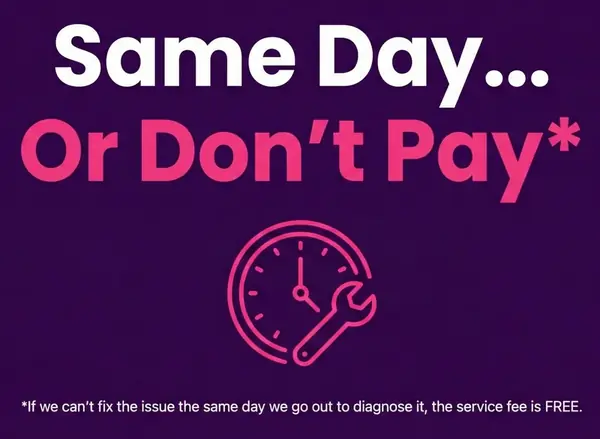
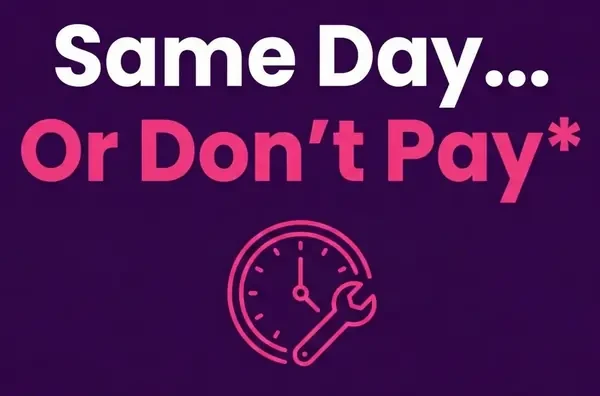
Update same-day-guarantee image on all pages: remove disclaimer text, update dimensions

Changed region(s): [[0.03, 0.0303, 0.99, 0.9394], [0.03, 0.2727, 0.21, 0.4848]]

diff --git a/pages/services/ac/evaporator-coil-replacement.html b/pages/services/ac/evaporator-coil-replacement.html
@@ -335,7 +335,7 @@
 
                     <!-- Same Day Guarantee Image -->
                     <figure style="margin: var(--spacing-xl) 0; text-align: center; display: flex; justify-content: center;">
-                        <img src="../../../images/services/ac/same-day-guarantee.webp" alt="Same Day Or Don't Pay Guarantee - If we can't fix the issue the same day we go out to diagnose it, the service fee is FREE" width="600" height="439" loading="lazy" style="width: 100%; max-width: 500px; height: auto; border-radius: var(--radius-md);">
+                        <img src="../../../images/services/ac/same-day-guarantee.webp" alt="Same Day Or Don't Pay Guarantee" width="600" height="396" loading="lazy" style="width: 100%; max-width: 500px; height: auto; border-radius: var(--radius-md);">
                     </figure>
 
                     <p>At On The Way Heating & Air, we replace evaporator coils throughout North Tampa—<a href="../../../pages/locations/carrollwood.html" style="color: #71CEEB;">Carrollwood</a>, <a href="../../../pages/locations/new-tampa.html" style="color: #71CEEB;">New Tampa</a>, USF, <a href="../../../pages/locations/temple-terrace.html" style="color: #71CEEB;">Temple Terrace</a>, <a href="../../../pages/locations/wesley-chapel.html" style="color: #71CEEB;">Wesley Chapel</a>. We'll diagnose whether your coil can be repaired or needs replacement, and we'll be straight with you about whether repair makes financial sense.</p>

diff --git a/pages/services/ac/condensate-drain-cleaning.html b/pages/services/ac/condensate-drain-cleaning.html
@@ -335,7 +335,7 @@
 
                     <!-- Same Day Guarantee Image -->
                     <figure style="margin: var(--spacing-xl) 0; text-align: center; display: flex; justify-content: center;">
-                        <img src="../../../images/services/ac/same-day-guarantee.webp" alt="Same Day Or Don't Pay Guarantee - If we can't fix the issue the same day we go out to diagnose it, the service fee is FREE" width="600" height="439" loading="lazy" style="width: 100%; max-width: 500px; height: auto; border-radius: var(--radius-md);">
+                        <img src="../../../images/services/ac/same-day-guarantee.webp" alt="Same Day Or Don't Pay Guarantee" width="600" height="396" loading="lazy" style="width: 100%; max-width: 500px; height: auto; border-radius: var(--radius-md);">
                     </figure>
 
                     <p>At On The Way Heating & Air, we clear clogged condensate drains all across North Tampa—<a href="../../../pages/locations/carrollwood.html" style="color: #71CEEB;">Carrollwood</a>, <a href="../../../pages/locations/new-tampa.html" style="color: #71CEEB;">New Tampa</a>, USF, <a href="../../../pages/locations/temple-terrace.html" style="color: #71CEEB;">Temple Terrace</a>, <a href="../../../pages/locations/wesley-chapel.html" style="color: #71CEEB;">Wesley Chapel</a>. Quick fix when caught early, expensive mess if ignored.</p>

diff --git a/index.html b/index.html
@@ -405,7 +405,7 @@
                 <p class="mission-text">When your air conditioning fails on a sweltering Tampa afternoon, you need more than just a technician—you need a partner who understands the urgency, responds quickly, and delivers results that last. On The Way Heating & Air has been that trusted partner for North Tampa families, solving HVAC problems with expertise, care, and a guarantee you can count on: <strong>Same Day... Or Don't Pay.</strong></p>
                 <!-- Same Day Guarantee Image -->
                 <figure style="margin: var(--spacing-lg) 0 0 0; text-align: center; display: flex; justify-content: center; line-height: 0; font-size: 0;">
-                    <img src="images/services/ac/same-day-guarantee.webp" alt="Same Day Or Don't Pay Guarantee - If we can't fix the issue the same day we go out to diagnose it, the service fee is FREE" width="665" height="430" loading="eager" style="width: 100%; max-width: 500px; height: auto; border-radius: var(--radius-md);">
+                    <img src="images/services/ac/same-day-guarantee.webp" alt="Same Day Or Don't Pay Guarantee" width="600" height="396" loading="eager" style="width: 100%; max-width: 500px; height: auto; border-radius: var(--radius-md);">
                 </figure>
             </div>
         </div>

diff --git a/pages/services/ac/ac-refrigerant-recharge.html b/pages/services/ac/ac-refrigerant-recharge.html
@@ -392,7 +392,7 @@
 
                     <!-- Same Day Guarantee Image -->
                     <figure style="margin: var(--spacing-xl) 0; text-align: center; display: flex; justify-content: center;">
-                        <img src="../../../images/services/ac/same-day-guarantee.webp" alt="Same Day Or Don't Pay Guarantee - If we can't fix the issue the same day we go out to diagnose it, the service fee is FREE" width="600" height="439" loading="lazy" style="width: 100%; max-width: 500px; height: auto; border-radius: var(--radius-md);">
+                        <img src="../../../images/services/ac/same-day-guarantee.webp" alt="Same Day Or Don't Pay Guarantee" width="600" height="396" loading="lazy" style="width: 100%; max-width: 500px; height: auto; border-radius: var(--radius-md);">
                     </figure>
 
                     <p>Just topping off refrigerant without finding and fixing the leak? You're wasting money. You'll be low again in weeks or months, paying for another recharge, and still dealing with a leaking system that's damaging your compressor.</p>

diff --git a/pages/services/ac/ac-compressor-replacement.html b/pages/services/ac/ac-compressor-replacement.html
@@ -386,7 +386,7 @@
 
                     <!-- Same Day Guarantee Image -->
                     <figure style="margin: var(--spacing-xl) 0; text-align: center; display: flex; justify-content: center;">
-                        <img src="../../../images/services/ac/same-day-guarantee.webp" alt="Same Day Or Don't Pay Guarantee - If we can't fix the issue the same day we go out to diagnose it, the service fee is FREE" width="600" height="439" loading="lazy" style="width: 100%; max-width: 500px; height: auto; border-radius: var(--radius-md);">
+                        <img src="../../../images/services/ac/same-day-guarantee.webp" alt="Same Day Or Don't Pay Guarantee" width="600" height="396" loading="lazy" style="width: 100%; max-width: 500px; height: auto; border-radius: var(--radius-md);">
                     </figure>
 
                     <h2 style="color: #d81471;">What Does Your AC Compressor Actually Do?</h2>

diff --git a/pages/services/ac/ac-maintenance.html b/pages/services/ac/ac-maintenance.html
@@ -370,7 +370,7 @@
 
                     <!-- Same Day Guarantee Image -->
                     <figure style="margin: var(--spacing-xl) 0; text-align: center; display: flex; justify-content: center;">
-                        <img src="../../../images/services/ac/same-day-guarantee.webp" alt="Same Day Or Don't Pay Guarantee - If we can't fix the issue the same day we go out to diagnose it, the service fee is FREE" width="600" height="439" loading="lazy" style="width: 100%; max-width: 500px; height: auto; border-radius: var(--radius-md);">
+                        <img src="../../../images/services/ac/same-day-guarantee.webp" alt="Same Day Or Don't Pay Guarantee" width="600" height="396" loading="lazy" style="width: 100%; max-width: 500px; height: auto; border-radius: var(--radius-md);">
                     </figure>
 
                     <h2 style="color: #d81471;">What AC Maintenance Actually Means</h2>

diff --git a/pages/services/ac/central-ac-repair.html b/pages/services/ac/central-ac-repair.html
@@ -348,7 +348,7 @@
 
                     <!-- Same Day Guarantee Image -->
                     <figure style="margin: var(--spacing-xl) 0; text-align: center; display: flex; justify-content: center;">
-                        <img src="../../../images/services/ac/same-day-guarantee.webp" alt="Same Day Or Don't Pay Guarantee - If we can't fix the issue the same day we go out to diagnose it, the service fee is FREE" width="600" height="439" loading="lazy" style="width: 100%; max-width: 500px; height: auto; border-radius: var(--radius-md);">
+                        <img src="../../../images/services/ac/same-day-guarantee.webp" alt="Same Day Or Don't Pay Guarantee" width="600" height="396" loading="lazy" style="width: 100%; max-width: 500px; height: auto; border-radius: var(--radius-md);">
                     </figure>
 
                     <h2 style="color: #d81471;">What Is Central Air Conditioning?</h2>

diff --git a/pages/services/ac/ac-blower-motor-replacement.html b/pages/services/ac/ac-blower-motor-replacement.html
@@ -349,7 +349,7 @@
 
                     <!-- Same Day Guarantee Image -->
                     <figure style="margin: var(--spacing-xl) 0; text-align: center; display: flex; justify-content: center;">
-                        <img src="../../../images/services/ac/same-day-guarantee.webp" alt="Same Day Or Don't Pay Guarantee - If we can't fix the issue the same day we go out to diagnose it, the service fee is FREE" width="600" height="439" loading="lazy" style="width: 100%; max-width: 500px; height: auto; border-radius: var(--radius-md);">
+                        <img src="../../../images/services/ac/same-day-guarantee.webp" alt="Same Day Or Don't Pay Guarantee" width="600" height="396" loading="lazy" style="width: 100%; max-width: 500px; height: auto; border-radius: var(--radius-md);">
                     </figure>
 
                     <!-- Signs Your System Needs AC Blower Motor Replacement -->

diff --git a/pages/services/ac/condenser-fan-motor-repair.html b/pages/services/ac/condenser-fan-motor-repair.html
@@ -349,7 +349,7 @@
 
                     <!-- Same Day Guarantee Image -->
                     <figure style="margin: var(--spacing-xl) 0; text-align: center; display: flex; justify-content: center;">
-                        <img src="../../../images/services/ac/same-day-guarantee.webp" alt="Same Day Or Don't Pay Guarantee - If we can't fix the issue the same day we go out to diagnose it, the service fee is FREE" width="600" height="439" loading="lazy" style="width: 100%; max-width: 500px; height: auto; border-radius: var(--radius-md);">
+                        <img src="../../../images/services/ac/same-day-guarantee.webp" alt="Same Day Or Don't Pay Guarantee" width="600" height="396" loading="lazy" style="width: 100%; max-width: 500px; height: auto; border-radius: var(--radius-md);">
                     </figure>
 
                     <!-- Signs Your System Needs Condenser Fan Motor Repair -->

diff --git a/pages/services/ac/ac-contactor-replacement.html b/pages/services/ac/ac-contactor-replacement.html
@@ -349,7 +349,7 @@
 
                     <!-- Same Day Guarantee Image -->
                     <figure style="margin: var(--spacing-xl) 0; text-align: center; display: flex; justify-content: center;">
-                        <img src="../../../images/services/ac/same-day-guarantee.webp" alt="Same Day Or Don't Pay Guarantee - If we can't fix the issue the same day we go out to diagnose it, the service fee is FREE" width="600" height="439" loading="lazy" style="width: 100%; max-width: 500px; height: auto; border-radius: var(--radius-md);">
+                        <img src="../../../images/services/ac/same-day-guarantee.webp" alt="Same Day Or Don't Pay Guarantee" width="600" height="396" loading="lazy" style="width: 100%; max-width: 500px; height: auto; border-radius: var(--radius-md);">
                     </figure>
 
                     <!-- Signs Your System Needs AC Contactor Replacement -->

diff --git a/pages/services/heating/heat-pump-capacitor-replacement.html b/pages/services/heating/heat-pump-capacitor-replacement.html
@@ -353,7 +353,7 @@
 
                     <!-- Same Day Guarantee Image -->
                     <figure style="margin: var(--spacing-xl) 0; text-align: center; display: flex; justify-content: center;">
-                        <img src="../../../images/services/ac/same-day-guarantee.webp" alt="Same Day Or Don't Pay Guarantee - If we can't fix the issue the same day we go out to diagnose it, the service fee is FREE" width="600" height="439" loading="lazy" style="width: 100%; max-width: 500px; height: auto; border-radius: var(--radius-md);">
+                        <img src="../../../images/services/ac/same-day-guarantee.webp" alt="Same Day Or Don't Pay Guarantee" width="600" height="396" loading="lazy" style="width: 100%; max-width: 500px; height: auto; border-radius: var(--radius-md);">
                     </figure>
 
                     <!-- Signs Your System Needs a Capacitor Replacement -->

diff --git a/pages/services/heating/furnace-ignitor-replacement.html b/pages/services/heating/furnace-ignitor-replacement.html
@@ -353,7 +353,7 @@
 
                     <!-- Same Day Guarantee Image -->
                     <figure style="margin: var(--spacing-xl) 0; text-align: center; display: flex; justify-content: center;">
-                        <img src="../../../images/services/ac/same-day-guarantee.webp" alt="Same Day Or Don't Pay Guarantee - If we can't fix the issue the same day we go out to diagnose it, the service fee is FREE" width="600" height="439" loading="lazy" style="width: 100%; max-width: 500px; height: auto; border-radius: var(--radius-md);">
+                        <img src="../../../images/services/ac/same-day-guarantee.webp" alt="Same Day Or Don't Pay Guarantee" width="600" height="396" loading="lazy" style="width: 100%; max-width: 500px; height: auto; border-radius: var(--radius-md);">
                     </figure>
 
                     <!-- Signs Your System Needs an Ignitor Replacement -->
